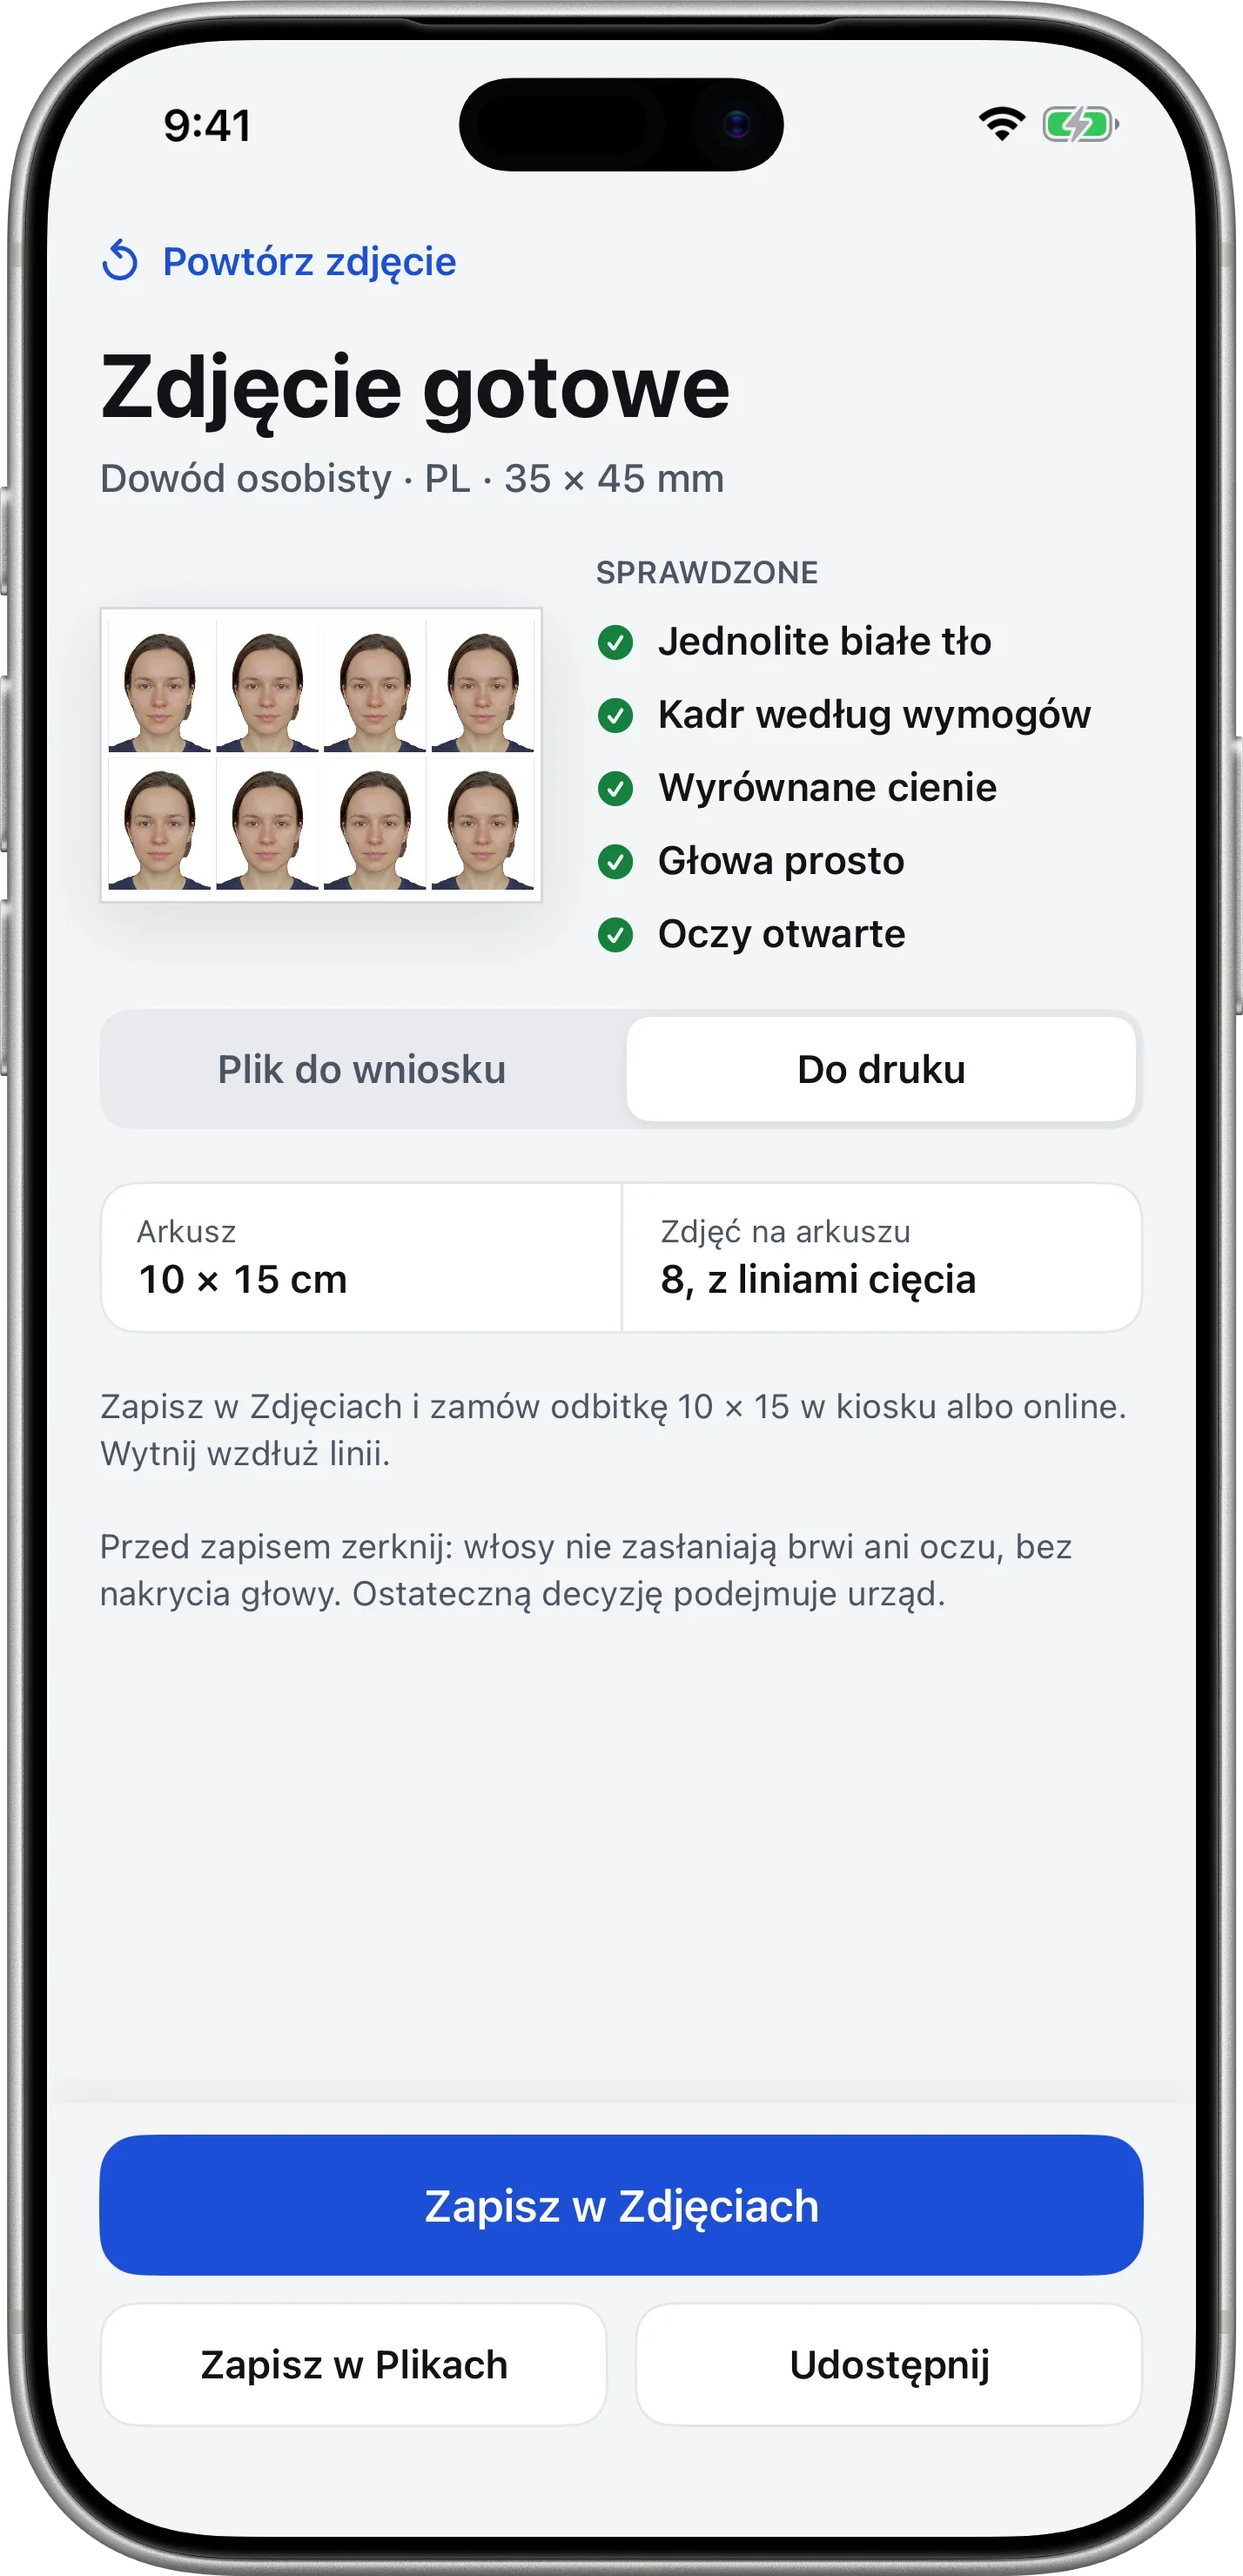
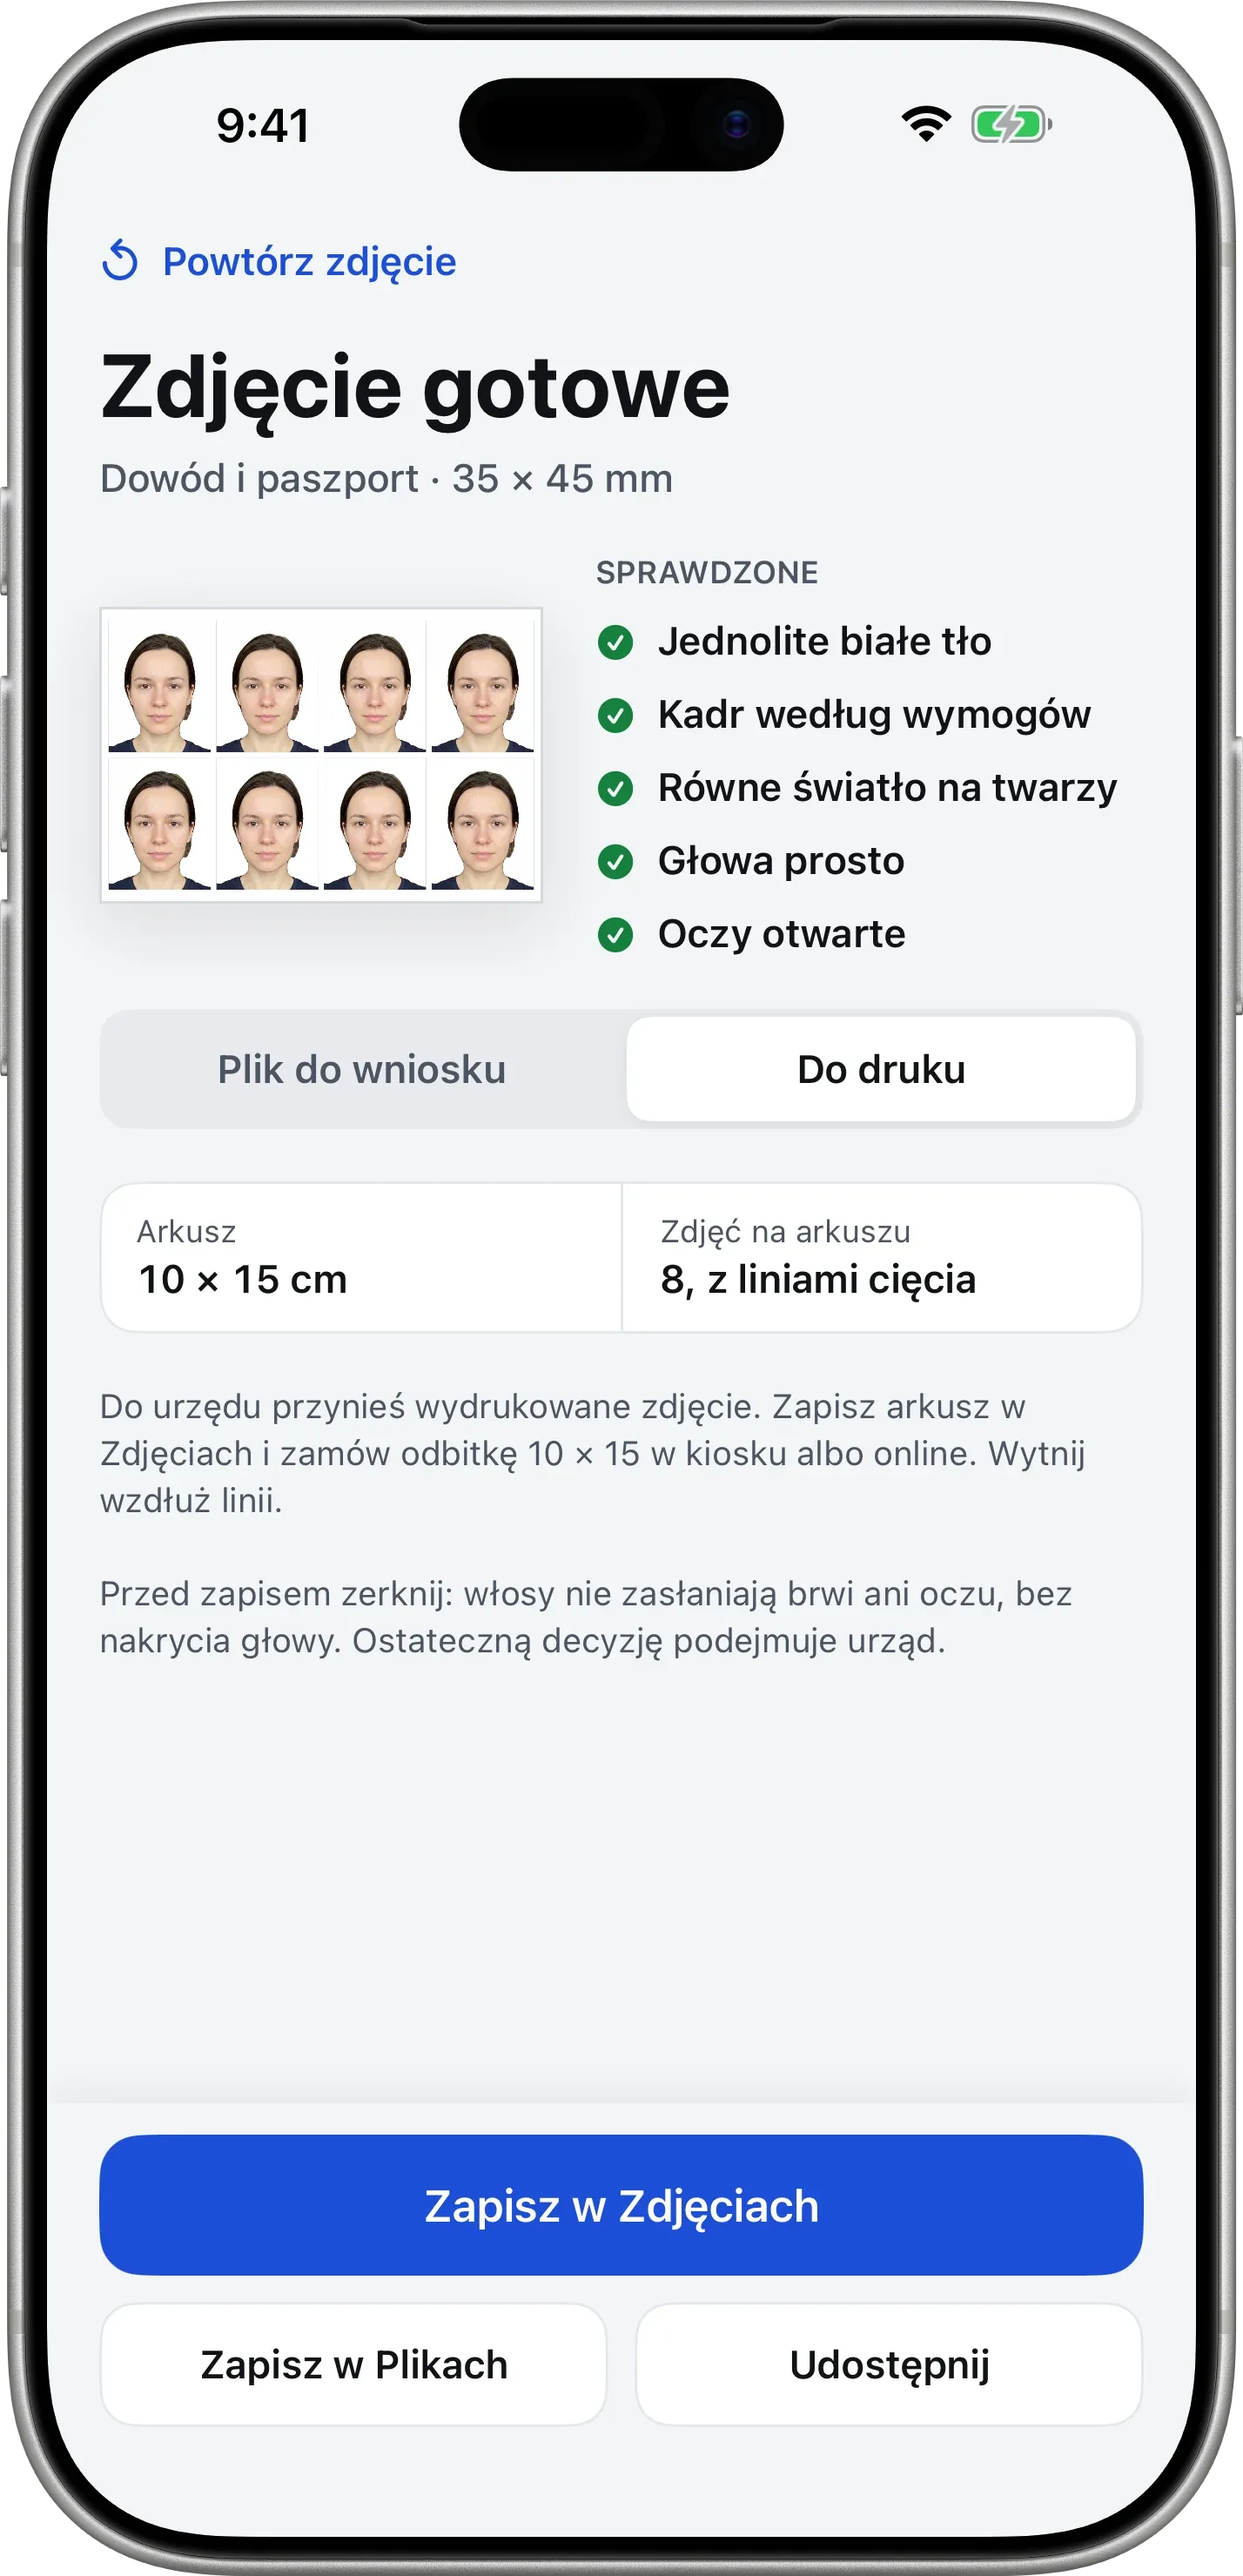
Strona: bez obietnicy wyrównanych cieni, nowe ekrany aplikacji, nagłówek sekcji pliku i druku

diff --git a/index.html b/index.html
@@ -4,7 +4,7 @@
 <meta charset="utf-8">
 <meta name="viewport" content="width=device-width, initial-scale=1, viewport-fit=cover">
 <title>Zdjęcia do dokumentów: zdjęcie do dowodu i paszportu telefonem w domu</title>
-<meta name="description" content="Zdjęcie do dowodu i paszportu zrobisz telefonem w domu. Aparat z ramką i owalem z maski MSWiA, podpowiedzi na żywo, potem białe tło, kadr 35 × 45 mm i cienie robią się same. Plik do wniosku online o dowód osobisty albo arkusz 10 × 15 cm do druku. Wszystko na iPhonie.">
+<meta name="description" content="Zdjęcie do dowodu i paszportu zrobisz telefonem w domu. Aparat z ramką i owalem z maski MSWiA, podpowiedzi na żywo, potem białe tło i kadr 35 × 45 mm robią się same. Plik do wniosku online o dowód osobisty albo arkusz 10 × 15 cm do druku. Wszystko na iPhonie.">
 <link rel="canonical" href="https://bashubb.com/idphoto/">
 <meta property="og:url" content="https://bashubb.com/idphoto/">
 <meta name="theme-color" content="#f3eee5">
@@ -36,7 +36,7 @@
   "applicationCategory": "PhotographyApplication",
   "inLanguage": "pl",
   "url": "https://bashubb.com/idphoto/",
-  "description": "Zdjęcie do dowodu osobistego i paszportu telefonem: ramka i owal z maski MSWiA, podpowiedzi na żywo, automatycznie białe tło, kadr 35 × 45 mm i wyrównane cienie. Plik do wniosku online o dowód osobisty albo arkusz 10 × 15 cm do druku (paszport, urząd). Wszystko na telefonie.",
+  "description": "Zdjęcie do dowodu osobistego i paszportu telefonem: ramka i owal z maski MSWiA, podpowiedzi na żywo, automatycznie białe tło i kadr 35 × 45 mm. Plik do wniosku online o dowód osobisty albo arkusz 10 × 15 cm do druku (paszport, urząd). Wszystko na telefonie.",
   "publisher": {"@type": "Organization", "name": "bashubb", "url": "https://bashubb.com/"}
 }
 </script>
@@ -142,13 +142,13 @@
     <div class="reveal">
       <span class="eyebrow">Dowód · paszport · 35&nbsp;×&nbsp;45&nbsp;mm</span>
       <h2 class="title" id="auto-title"><span class="l1">Reszta zrobi się</span> <span class="l2">za Ciebie</span></h2>
-      <p class="sub">Białe tło, kadr 35&nbsp;×&nbsp;45&nbsp;mm i cienie ustawią się automatycznie.</p>
+      <p class="sub">Białe tło i kadr 35&nbsp;×&nbsp;45&nbsp;mm ustawią się automatycznie.</p>
     </div>
     <ul class="ticks reveal d1">
       <li><svg aria-hidden="true"><use href="#i-check-circle"/></svg>Wycinamy postać z tła</li>
       <li><svg aria-hidden="true"><use href="#i-check-circle"/></svg>Jednolite białe tło</li>
       <li><svg aria-hidden="true"><use href="#i-check-circle"/></svg>Kadr 35&nbsp;×&nbsp;45&nbsp;mm według wymogów</li>
-      <li><svg aria-hidden="true"><use href="#i-check-circle"/></svg>Wyrównujemy światło i cienie</li>
+      <li><svg aria-hidden="true"><use href="#i-check-circle"/></svg>Sprawdzamy wynik</li>
     </ul>
     <div class="docs reveal">
       <img src="assets/media/documents.webp" width="2400" height="1300" alt="Makiety dokumentów z tym samym zdjęciem: paszport, dowód osobisty i prawo jazdy (ilustracja)" loading="lazy">

diff --git a/privacy/index.html b/privacy/index.html
@@ -55,7 +55,7 @@
 <li>Aplikacja nie łączy się z internetem. Nic nie jest wysyłane, także do nas.</li>
 </ul>
 <h2>Zdjęcia</h2>
-<p>Zdjęcie z aparatu albo wybrane z galerii jest obrabiane wyłącznie na telefonie: wycięcie postaci, białe tło, kadr i wyrównanie światła liczy iPhone. Nie widzimy żadnego zdjęcia i nigdzie go nie przechowujemy.</p>
+<p>Zdjęcie z aparatu albo wybrane z galerii jest obrabiane wyłącznie na telefonie: wycięcie postaci, białe tło i kadr liczy iPhone. Nie widzimy żadnego zdjęcia i nigdzie go nie przechowujemy.</p>
 <p>Gotowe zdjęcie trafia tylko tam, gdzie zdecydujesz: do Zdjęć, do Plików albo do aplikacji wybranej przy udostępnianiu. Po udostępnieniu za plik odpowiada usługa, do której go przekazano.</p>
 <h2>Uprawnienia</h2>
 <ul>
